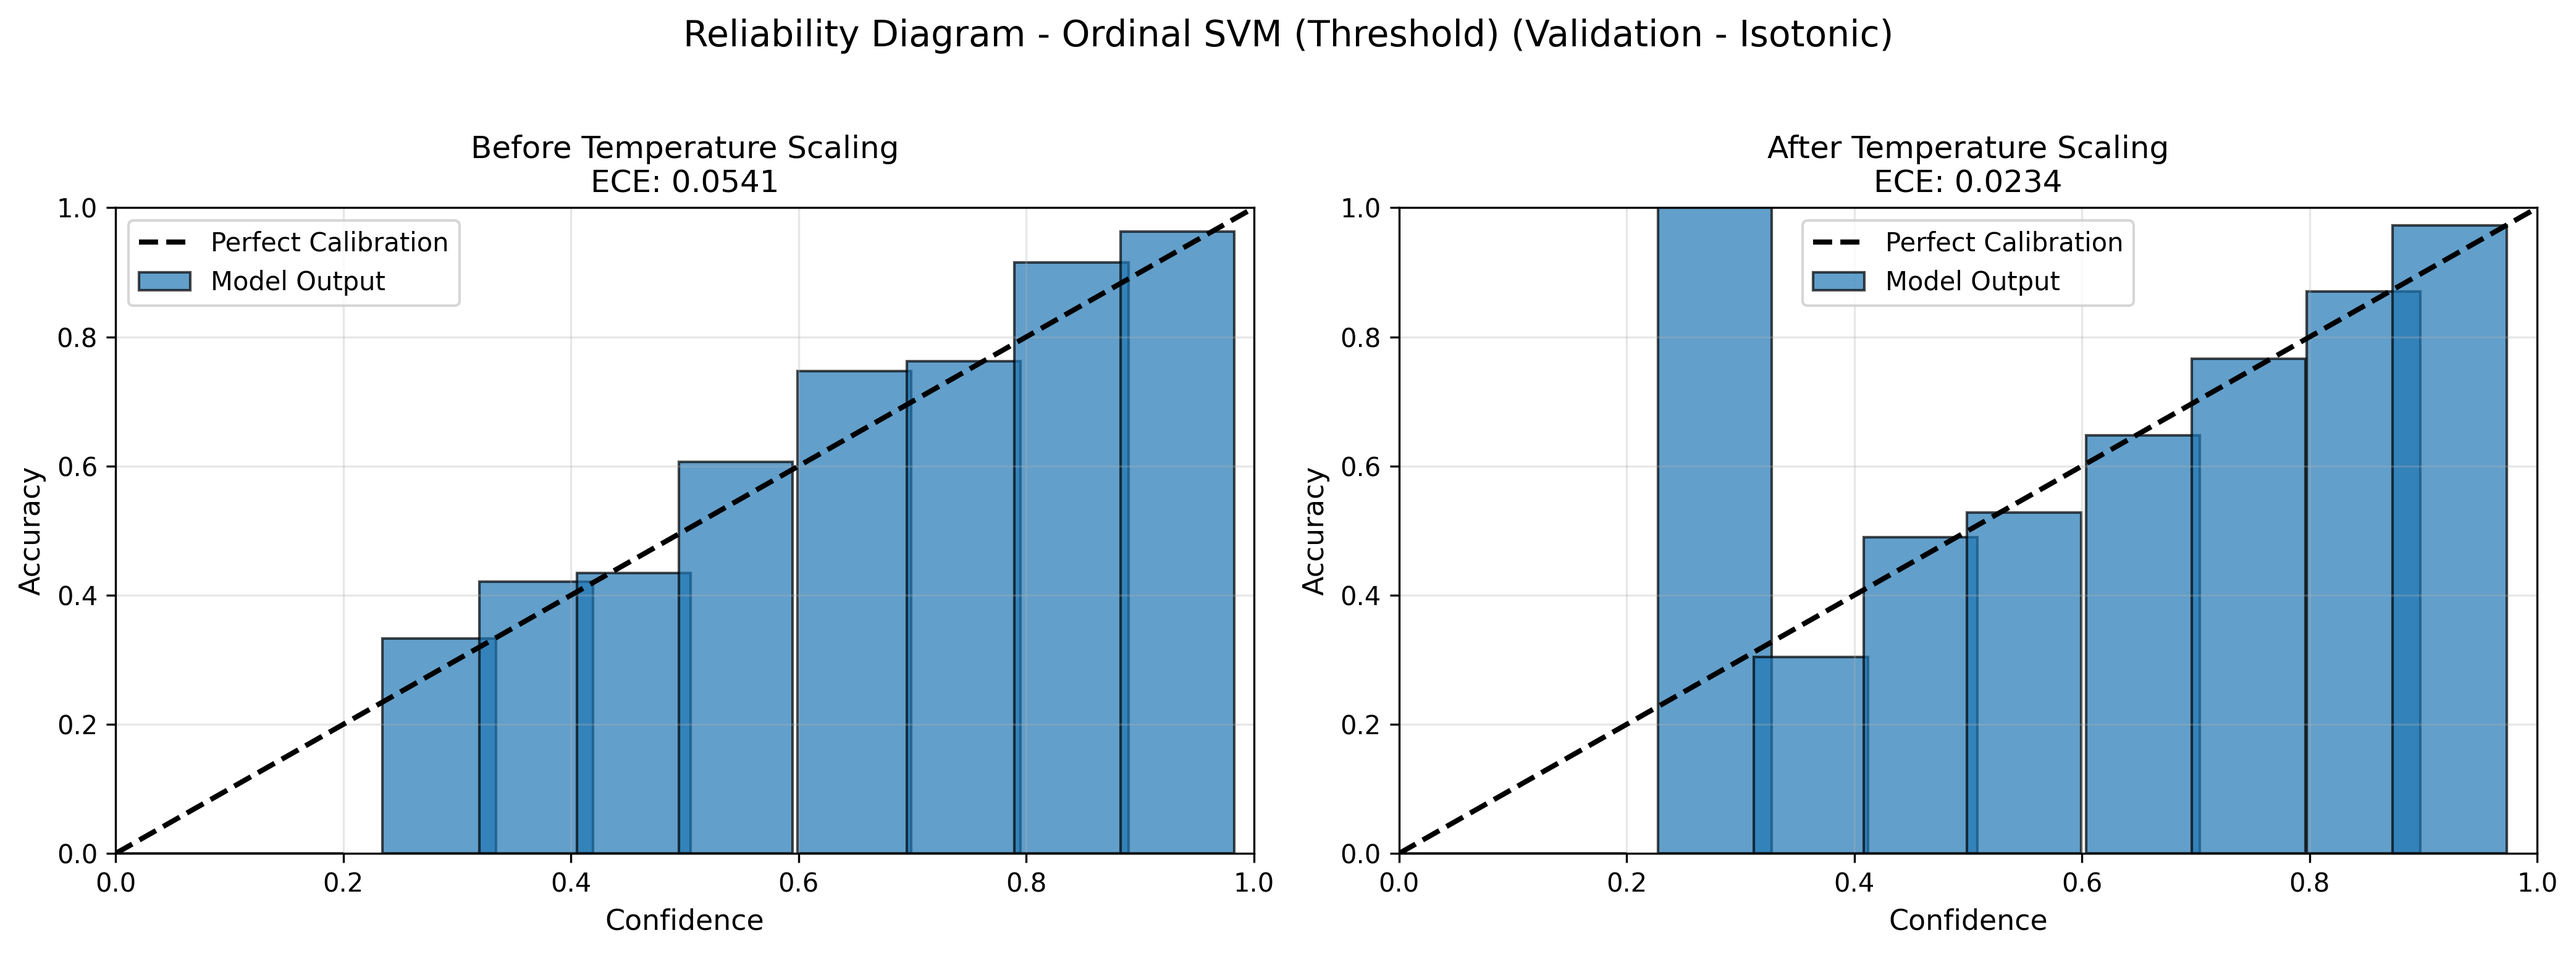
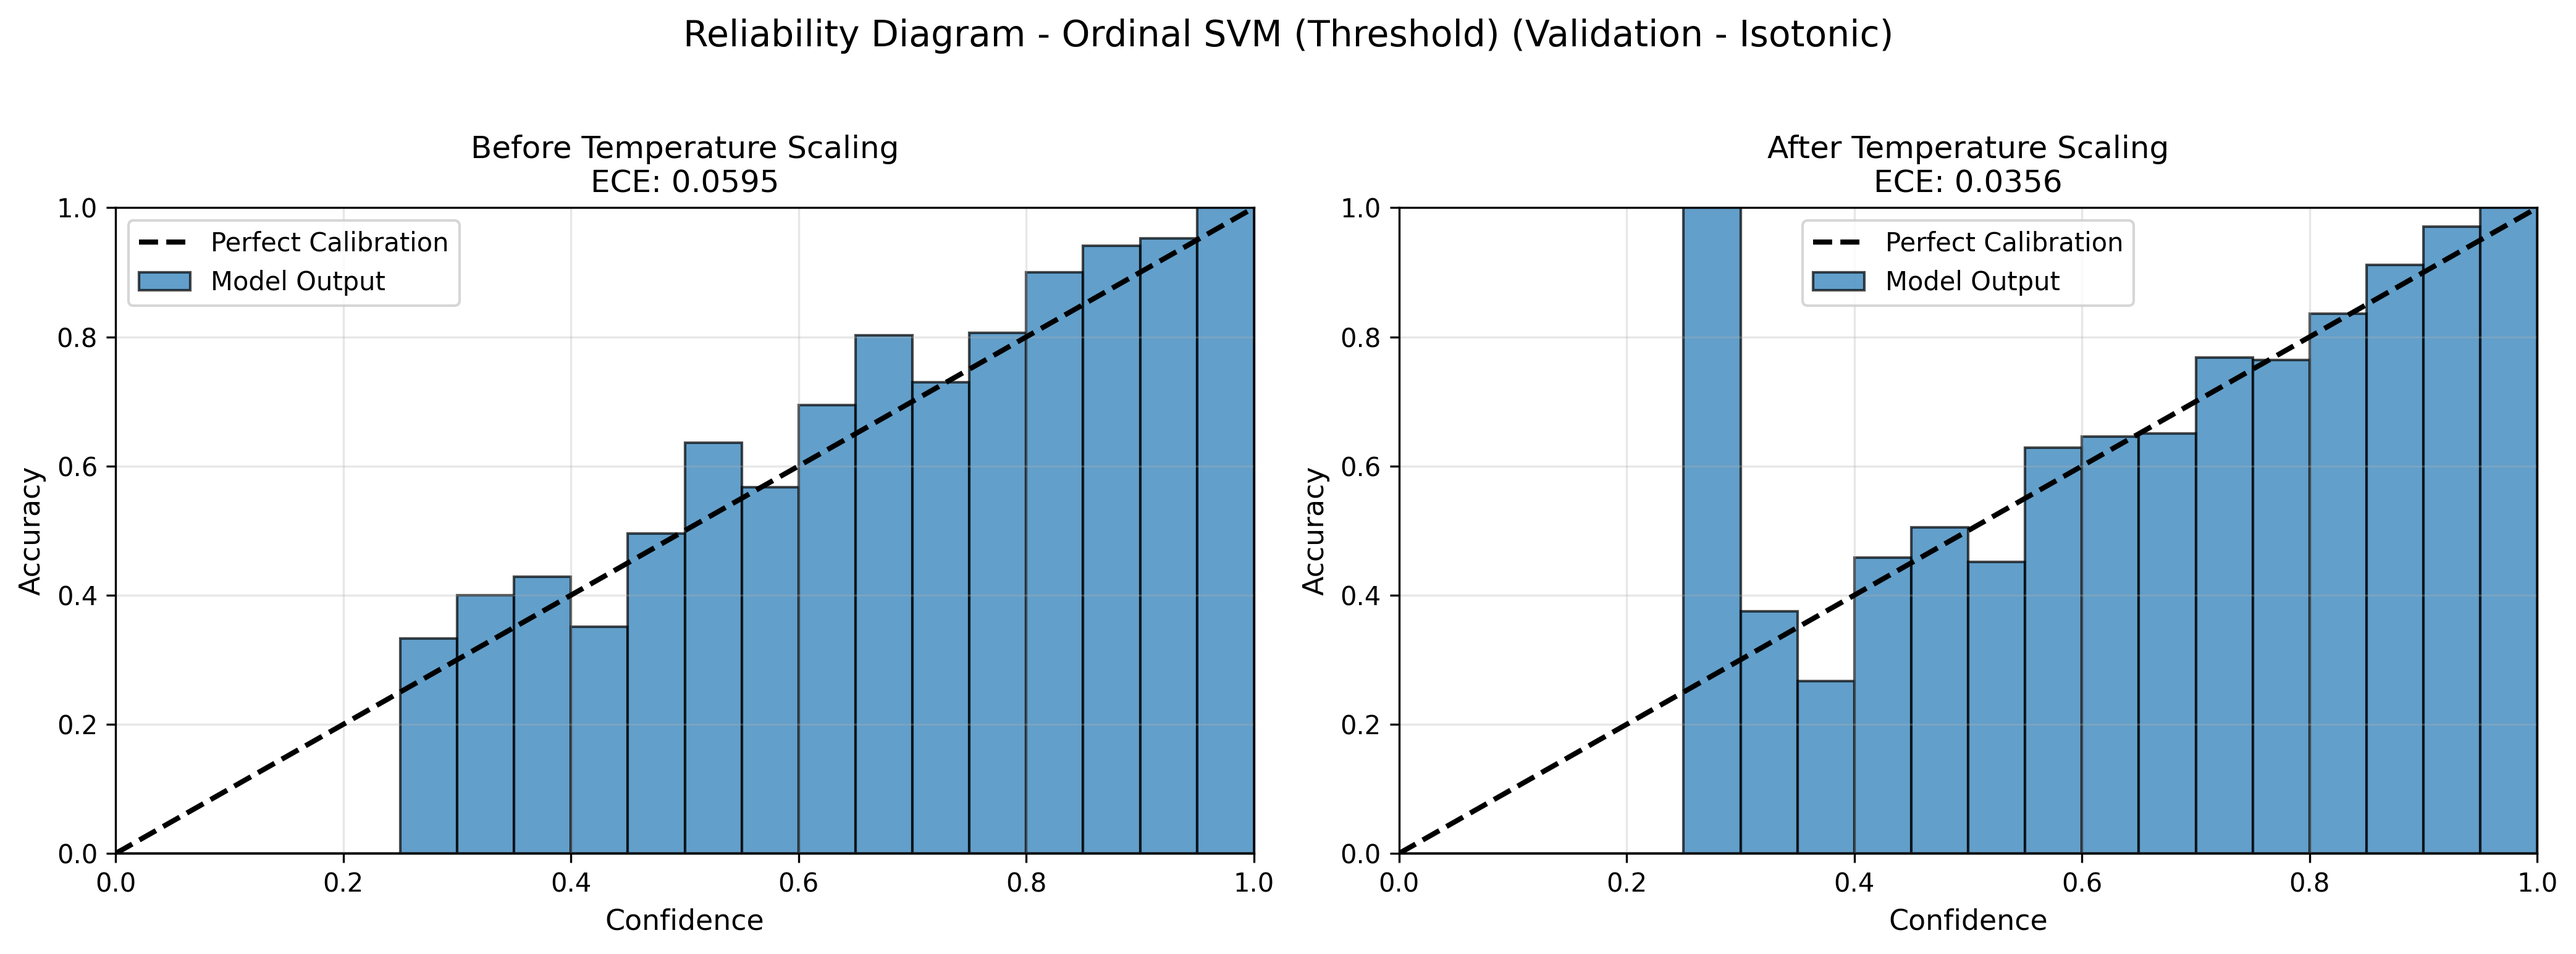
minor additions

diff --git a/code/confidence_estimation/visualization.py b/code/confidence_estimation/visualization.py
@@ -5,7 +5,7 @@ import matplotlib.pyplot as plt
 from .temperature_scaling import evaluate_calibration
 
 
-def plot_reliability_diagram(probs_before, probs_after, labels, model_name, output_path, n_bins=10):
+def plot_reliability_diagram(probs_before, probs_after, labels, model_name, output_path, n_bins=20):
     """
     Plot reliability diagram showing calibration before and after temperature scaling.
     
@@ -40,13 +40,14 @@ def plot_reliability_diagram(probs_before, probs_after, labels, model_name, outp
         
         for bin_lower, bin_upper in zip(bin_lowers, bin_uppers):
             in_bin = (confidences > bin_lower) & (confidences <= bin_upper)
+            bin_center = (bin_lower + bin_upper) / 2
             if np.sum(in_bin) > 0:
                 bin_accuracies.append(np.mean(accuracies[in_bin]))
-                bin_confidences.append(np.mean(confidences[in_bin]))
+                bin_confidences.append(bin_center)
                 bin_counts.append(np.sum(in_bin))
             else:
                 bin_accuracies.append(0)
-                bin_confidences.append((bin_lower + bin_upper) / 2)
+                bin_confidences.append(bin_center)
                 bin_counts.append(0)
         
         # Plot
